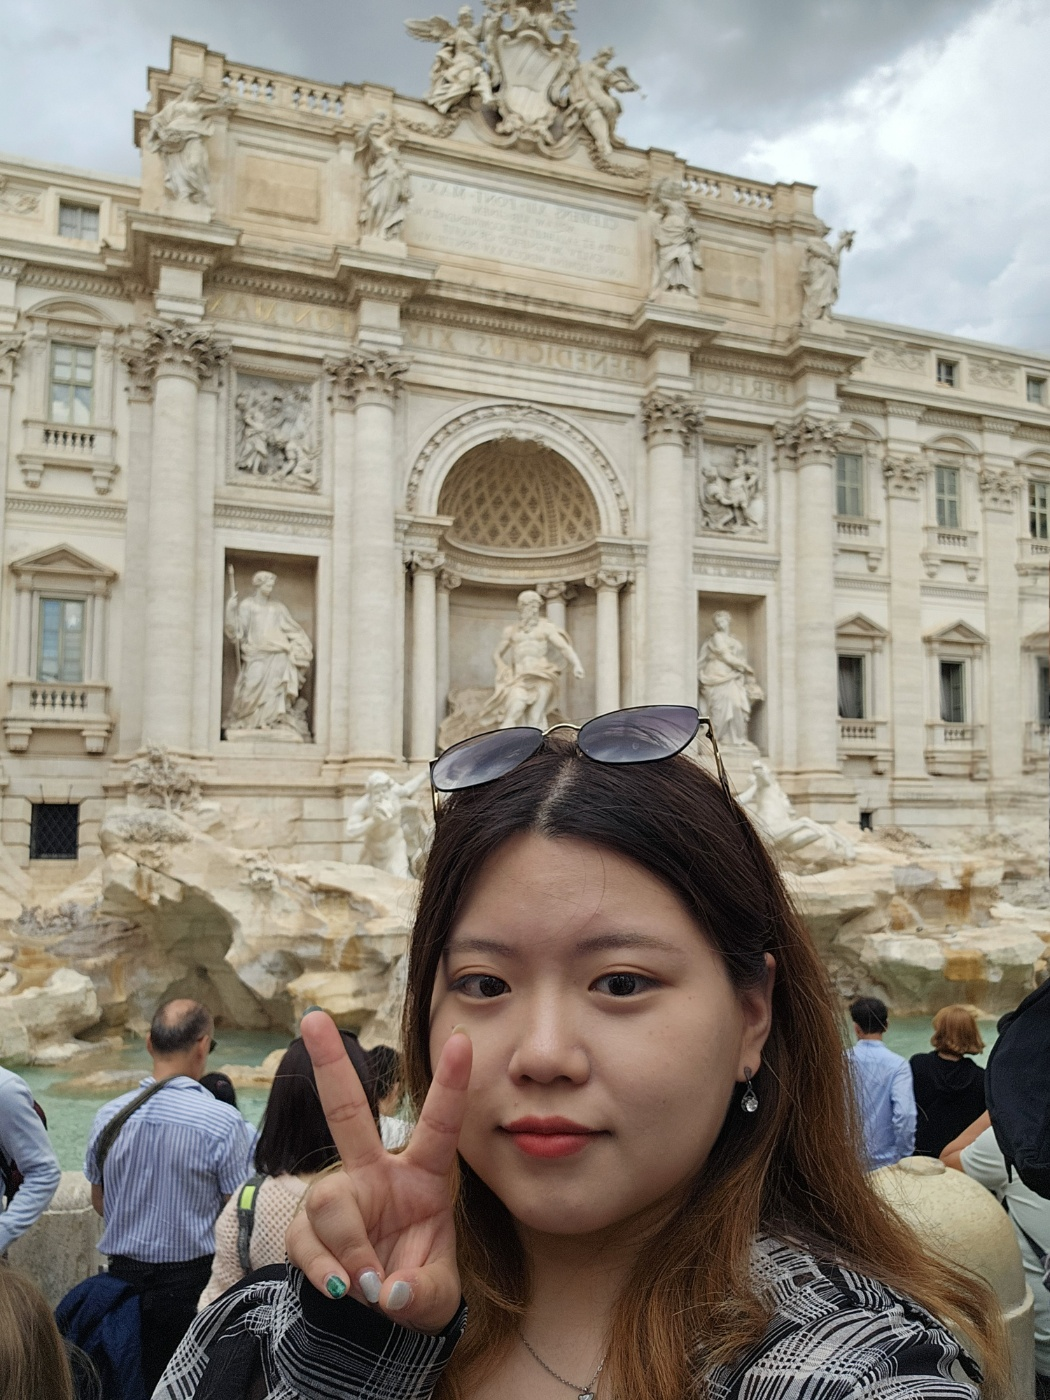
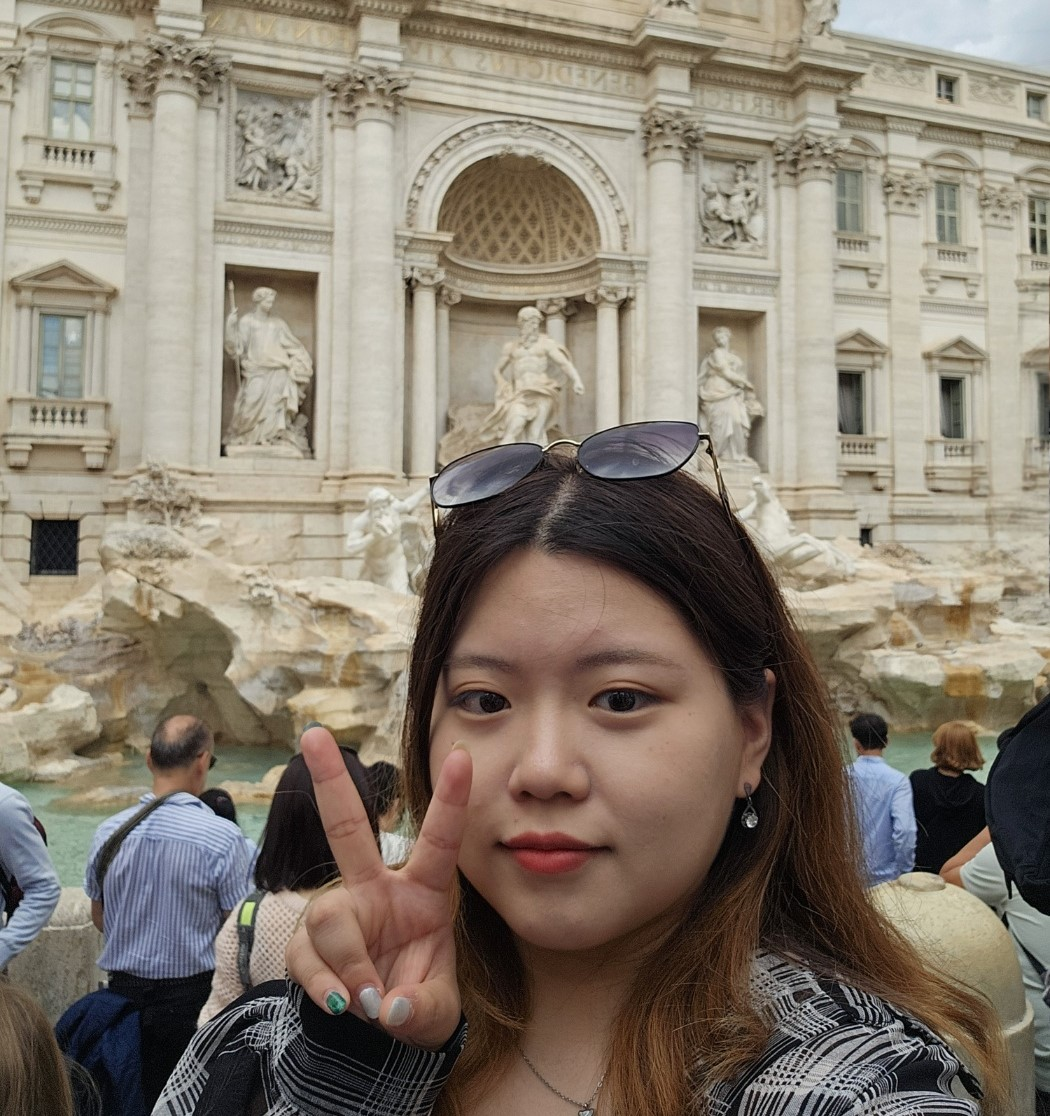
수빈 사진 수정

diff --git a/js/subin-layout.js b/js/subin-layout.js
@@ -49,7 +49,7 @@ document.addEventListener("DOMContentLoaded", () => {
                 // box3가 화면에 보이면 변경
                 $(".sidebar").css("background-color", "#ddd9ff");
                 $(".sidebar").css("color", "#353535");
-                $("#profile-pic").attr("src", "https://file.notion.so/f/f/7e039624-6d36-4a01-8780-25686827b319/69383a9a-4515-41f8-a13f-2127ebaeec22/personalProfile-subin.jpg?table=block&id=1a076aa3-c8ad-80ae-a957-e8f30ce322d1&spaceId=7e039624-6d36-4a01-8780-25686827b319&expirationTimestamp=1740096000000&signature=6PO1OYfhdJXEfPoA37WObV7Q-zMNc4UxfmQT9RxIBCs&downloadName=personalProfile-subin.jpg"); 
+                $("#profile-pic").attr("src", "./images/personalProfile-subin.jpg"); 
             } else {
                 // box3에서 벗어나면 원래대로
                 $(".sidebar").css("background-color","");

diff --git a/index.html b/index.html
@@ -114,7 +114,7 @@
                                         onclick="window.open('subin.html','_blank');">더보기</button>
                                 </div>
                                 <!-- 프로필 이미지 -->
-                                <img src="./images/profile-subin.jpeg" class="card-img-top" alt="..."
+                                <img src="./images/personalProfile-subin.jpg" class="card-img-top" alt="..."
                                     style="display: block">
                                 <!-- 프로필 소개 -->
                                 <div class="card-body" style="padding: 0px">
